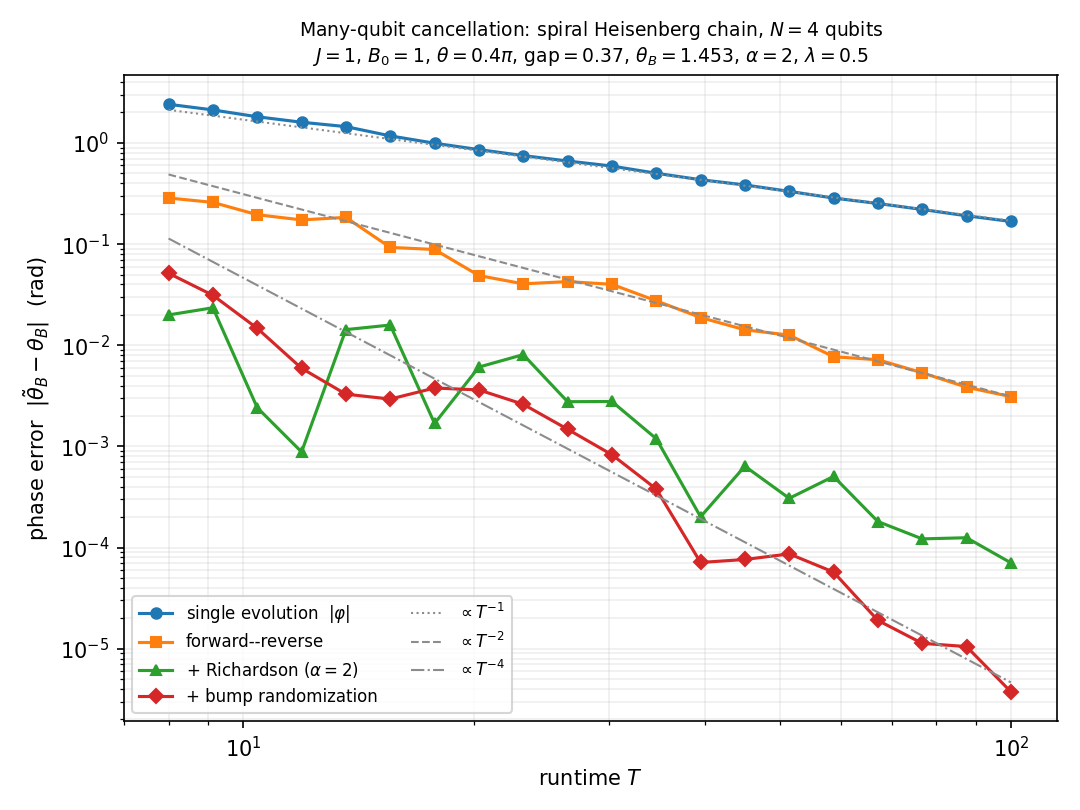
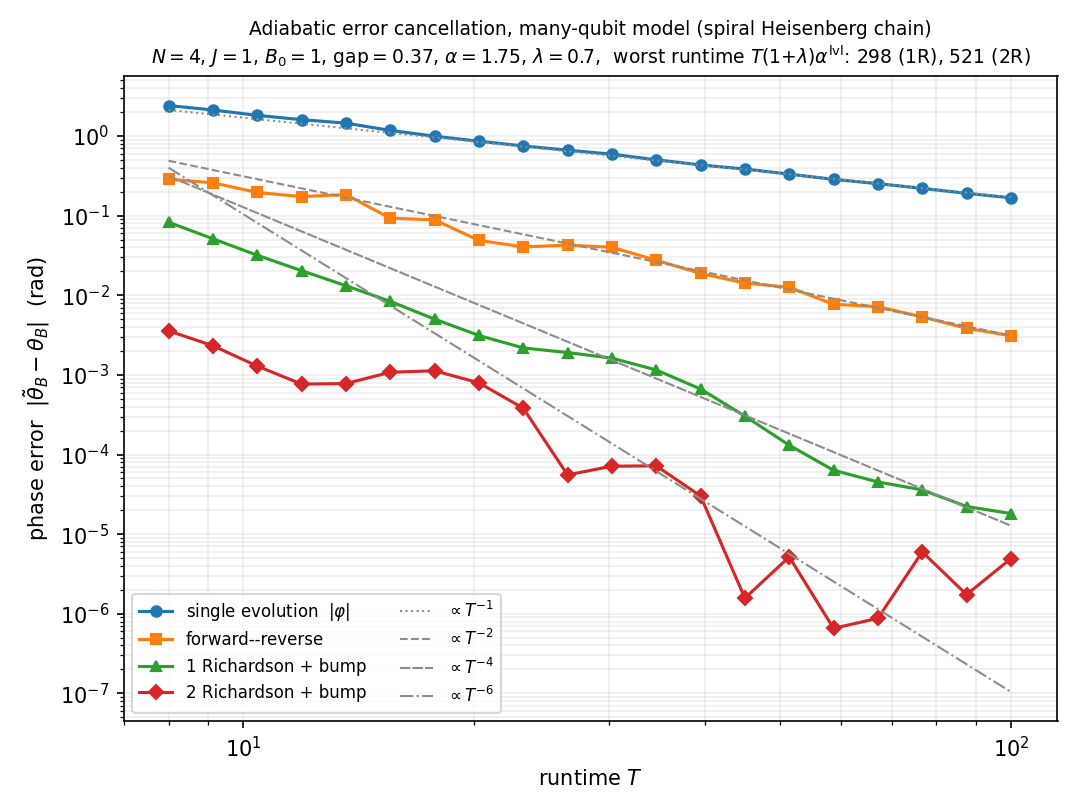
Make many-body figure mirror scaling.png
fig_manybody.py now uses the same four curves (single, forward-reverse,
1 Richardson + bump T^-4, 2 Richardson + bump T^-6), same alpha=1.75, lambda=0.7,
title/worst-runtime format and reference lines as fig_scaling.py -- on the 4-qubit
spiral Heisenberg model.

diff --git a/experiments/fig_manybody.py b/experiments/fig_manybody.py
@@ -1,15 +1,14 @@
 r"""Adiabatic error cancellation in a non-trivial many-qubit model.
 
-Heisenberg chain in a spiral rotating field (see berry_cancellation/manybody.py):
-an entangled, several-qubit loop with a nonzero virtual-excitation term A^(2). The
-same estimators as the spin-1/2 figure are applied unchanged (they pick up the
-model's exact amplitudes via loop_amplitudes), demonstrating that the cancellation
-cascade survives in a genuine many-body setting:
+Same figure as fig_scaling.py, but on an entangled several-qubit loop -- a
+Heisenberg chain in a spiral rotating field (see berry_cancellation/manybody.py),
+which has a nonzero virtual-excitation term A^(2). The same estimators are applied
+unchanged (they pick up the model's exact amplitudes via loop_amplitudes):
 
-    single evolution             ~ O(T^-1)
-    forward--reverse             ~ O(T^-2)
-    + Richardson                 ~ O(T^-2)
-    + bump randomization (1 lvl) ~ O(T^-4)
+    single evolution              ~ O(T^-1)
+    forward--reverse              ~ O(T^-2)   (oscillatory)
+    1 Richardson + bump random.   ~ O(T^-4)
+    2 Richardson + bump random.   ~ O(T^-6)   (large-T envelope; oscillatory)
 
 Run with:  uv run python experiments/fig_manybody.py
 Writes:    figures/manybody.png
@@ -27,7 +26,6 @@ from berry_cancellation.reference import berry_phase_wilson
 from berry_cancellation.estimators import (
     forward_reverse_error,
     randomized_richardson_bias,
-    richardson_error,
     single_phase_error,
 )
 
@@ -37,8 +35,10 @@ N = 4
 J = 1.0
 B0 = 1.0
 THETA = 0.4 * np.pi
-ALPHA = 2.0
-LAM = 0.5
+LAM = 0.7
+ALPHA = 1.75
+T_MAX = 100.0
+N_POINTS = 20
 
 
 def main() -> None:
@@ -47,39 +47,56 @@ def main() -> None:
     print(f"N={N} spiral Heisenberg chain: gap={model.gap:.4f}, "
           f"theta_B={model.berry_phase:.6f} (Wilson {wl:.6f})")
 
-    T = np.geomspace(8.0, 100.0, 20)
+    T = np.geomspace(8.0, T_MAX, N_POINTS)
+    alpha = ALPHA
 
-    print("single ..."); e_single = single_phase_error(model, T)
-    print("forward-reverse ..."); e_fr = forward_reverse_error(model, T)
-    print("Richardson ..."); e_rich = richardson_error(model, T, alpha=ALPHA)
-    print("bump randomization ...")
-    e_bump = randomized_richardson_bias(model, T, alpha=ALPHA, lam=LAM,
-                                        levels=1, dist="bump", n_nodes=129)
+    print("computing single-evolution phase error ...")
+    e_single = single_phase_error(model, T)
+    print("computing forward--reverse error ...")
+    e_fr = forward_reverse_error(model, T)
+    print("computing 1 Richardson + bump randomization ...")
+    e_bump1 = randomized_richardson_bias(model, T, alpha=alpha, lam=LAM,
+                                         levels=1, dist="bump", n_nodes=129)
+    print("computing 2 Richardson + bump randomization ...")
+    e_bump2 = randomized_richardson_bias(model, T, alpha=alpha, lam=LAM,
+                                         levels=2, dist="bump", n_nodes=129)
 
     fig, ax = plt.subplots(figsize=(7.2, 5.4))
     ax.loglog(T, e_single, "o-", ms=5, color="C0",
               label=r"single evolution  $|\varphi|$")
     ax.loglog(T, e_fr, "s-", ms=5, color="C1", label=r"forward--reverse")
-    ax.loglog(T, e_rich, "^-", ms=5, color="C2", label=r"+ Richardson ($\alpha=2$)")
-    ax.loglog(T, e_bump, "D-", ms=5, color="C3", label=r"+ bump randomization")
+    ax.loglog(T, e_bump1, "^-", ms=5, color="C2",
+              label=r"1 Richardson + bump")
+    ax.loglog(T, e_bump2, "D-", ms=5, color="C3",
+              label=r"2 Richardson + bump")
 
-    tail = T >= np.sqrt(8.0 * 100.0)
+    # Reference slopes, anchored through the median of each curve over the upper
+    # (more asymptotic) half so the guide sits on the data.
+    tail = T >= np.sqrt(8.0 * T_MAX)
     for power, e, style in [
-        (-1, e_single, ":"), (-2, e_fr, "--"), (-4, e_bump, "-."),
+        (-1, e_single, ":"),
+        (-2, e_fr, "--"),
+        (-4, e_bump1, (0, (5, 1))),
+        (-6, e_bump2, "-."),
     ]:
         c = np.median(e[tail] / T[tail] ** power)
         ax.loglog(T, c * T ** power, color="0.55", lw=1.0, linestyle=style,
                   label=rf"$\propto T^{{{power}}}$")
 
-    ax.set_xlim(7.0, 115.0)
+    # Worst-case single evolution: T_max*(1+lam)*alpha^levels (1 vs 2 Richardson).
+    worst1 = T_MAX * (1.0 + LAM) * alpha
+    worst2 = T_MAX * (1.0 + LAM) * alpha**2
+    params = (rf"$N={N}$, $J={J:g}$, $B_0={B0:g}$, gap$={model.gap:.2f}$, "
+              rf"$\alpha={alpha:g}$, $\lambda={LAM:g}$,  "
+              rf"worst runtime $T(1{{+}}\lambda)\alpha^{{\rm lvl}}$: "
+              rf"{worst1:.0f} (1R), {worst2:.0f} (2R)")
+
+    ax.set_xlim(7.0, T_MAX * 1.15)
     ax.set_xlabel("runtime $T$")
     ax.set_ylabel(r"phase error  $|\tilde\theta_B - \theta_B|$  (rad)")
-    ax.set_title(rf"Many-qubit cancellation: spiral Heisenberg chain, $N={N}$ qubits"
-                 "\n"
-                 rf"$J={J:g}$, $B_0={B0:g}$, $\theta={THETA/np.pi:.1f}\pi$, "
-                 rf"gap$={model.gap:.2f}$, $\theta_B={model.berry_phase:.3f}$, "
-                 rf"$\alpha={ALPHA:g}$, $\lambda={LAM:g}$", fontsize=9)
-    ax.legend(fontsize=8, ncol=2)
+    ax.set_title("Adiabatic error cancellation, many-qubit model "
+                 "(spiral Heisenberg chain)\n" + params, fontsize=9)
+    ax.legend(fontsize=8, ncol=2, loc="lower left")
     ax.grid(True, which="both", alpha=0.2)
     fig.tight_layout()
 